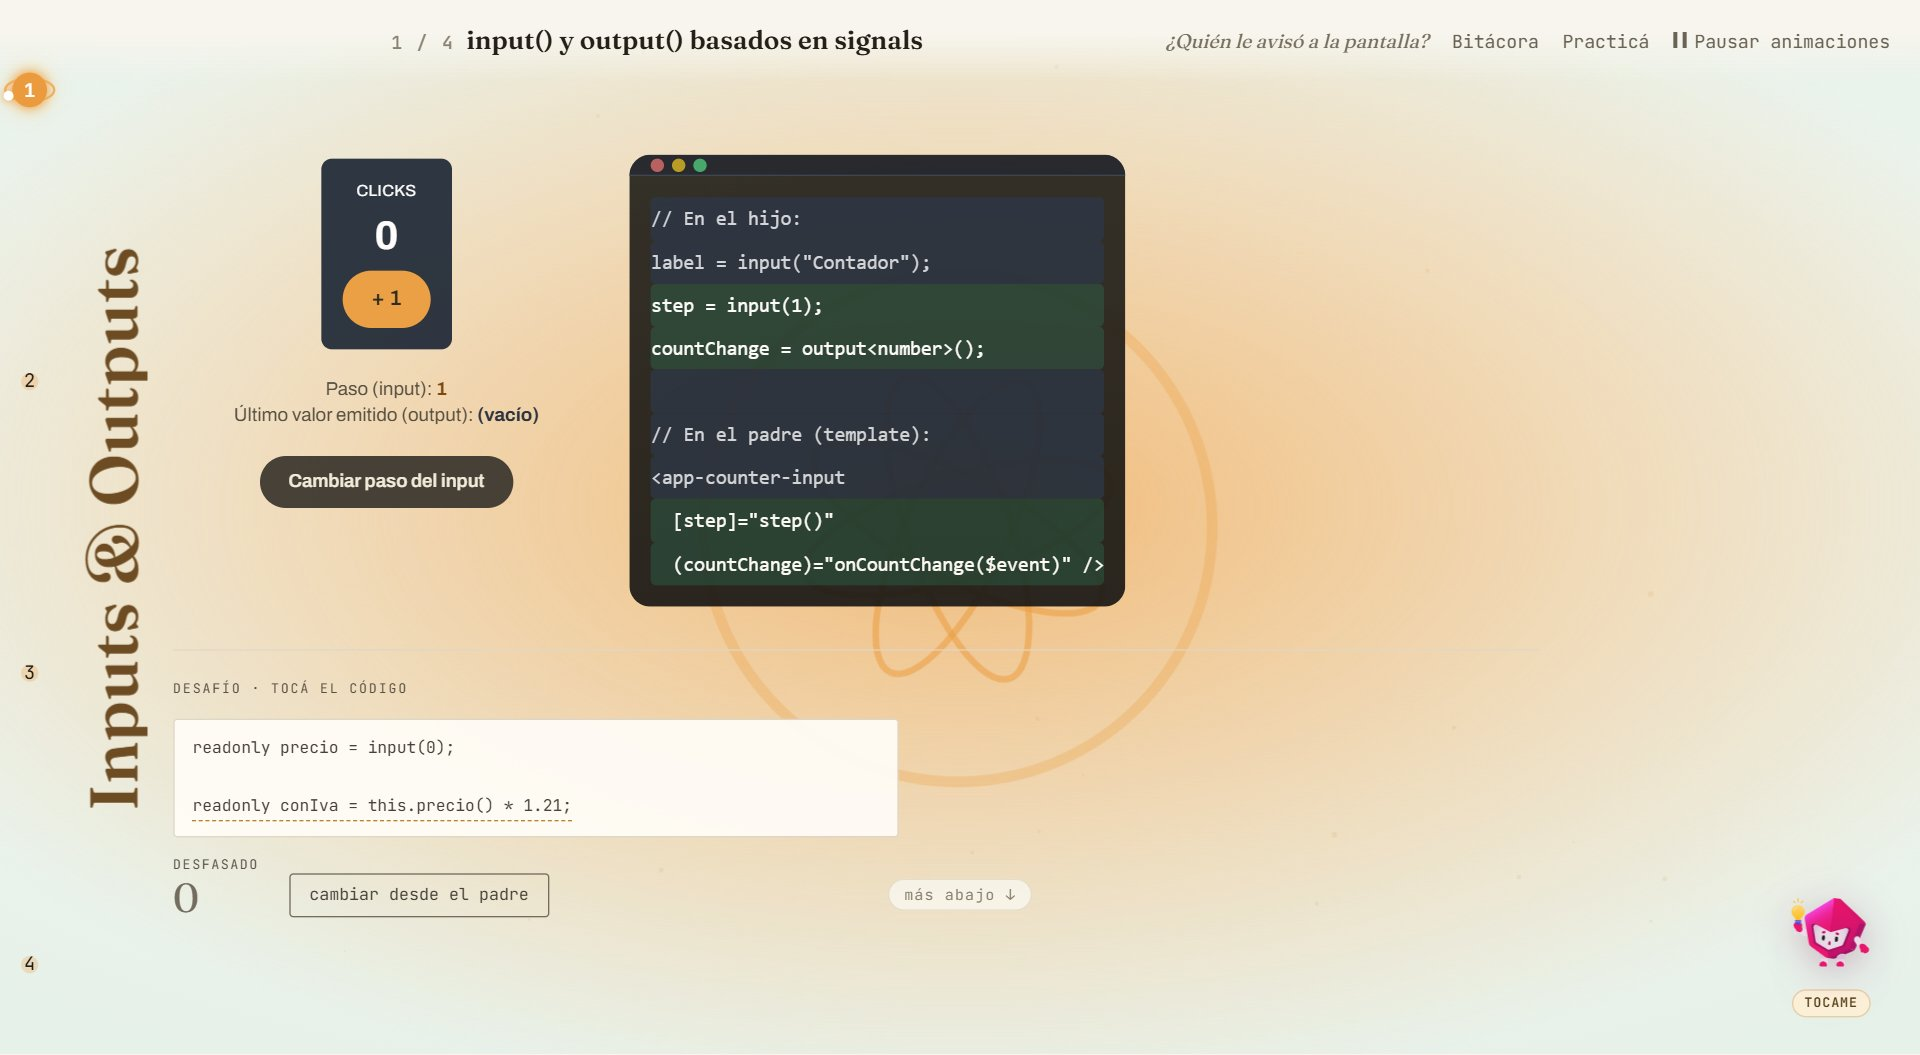
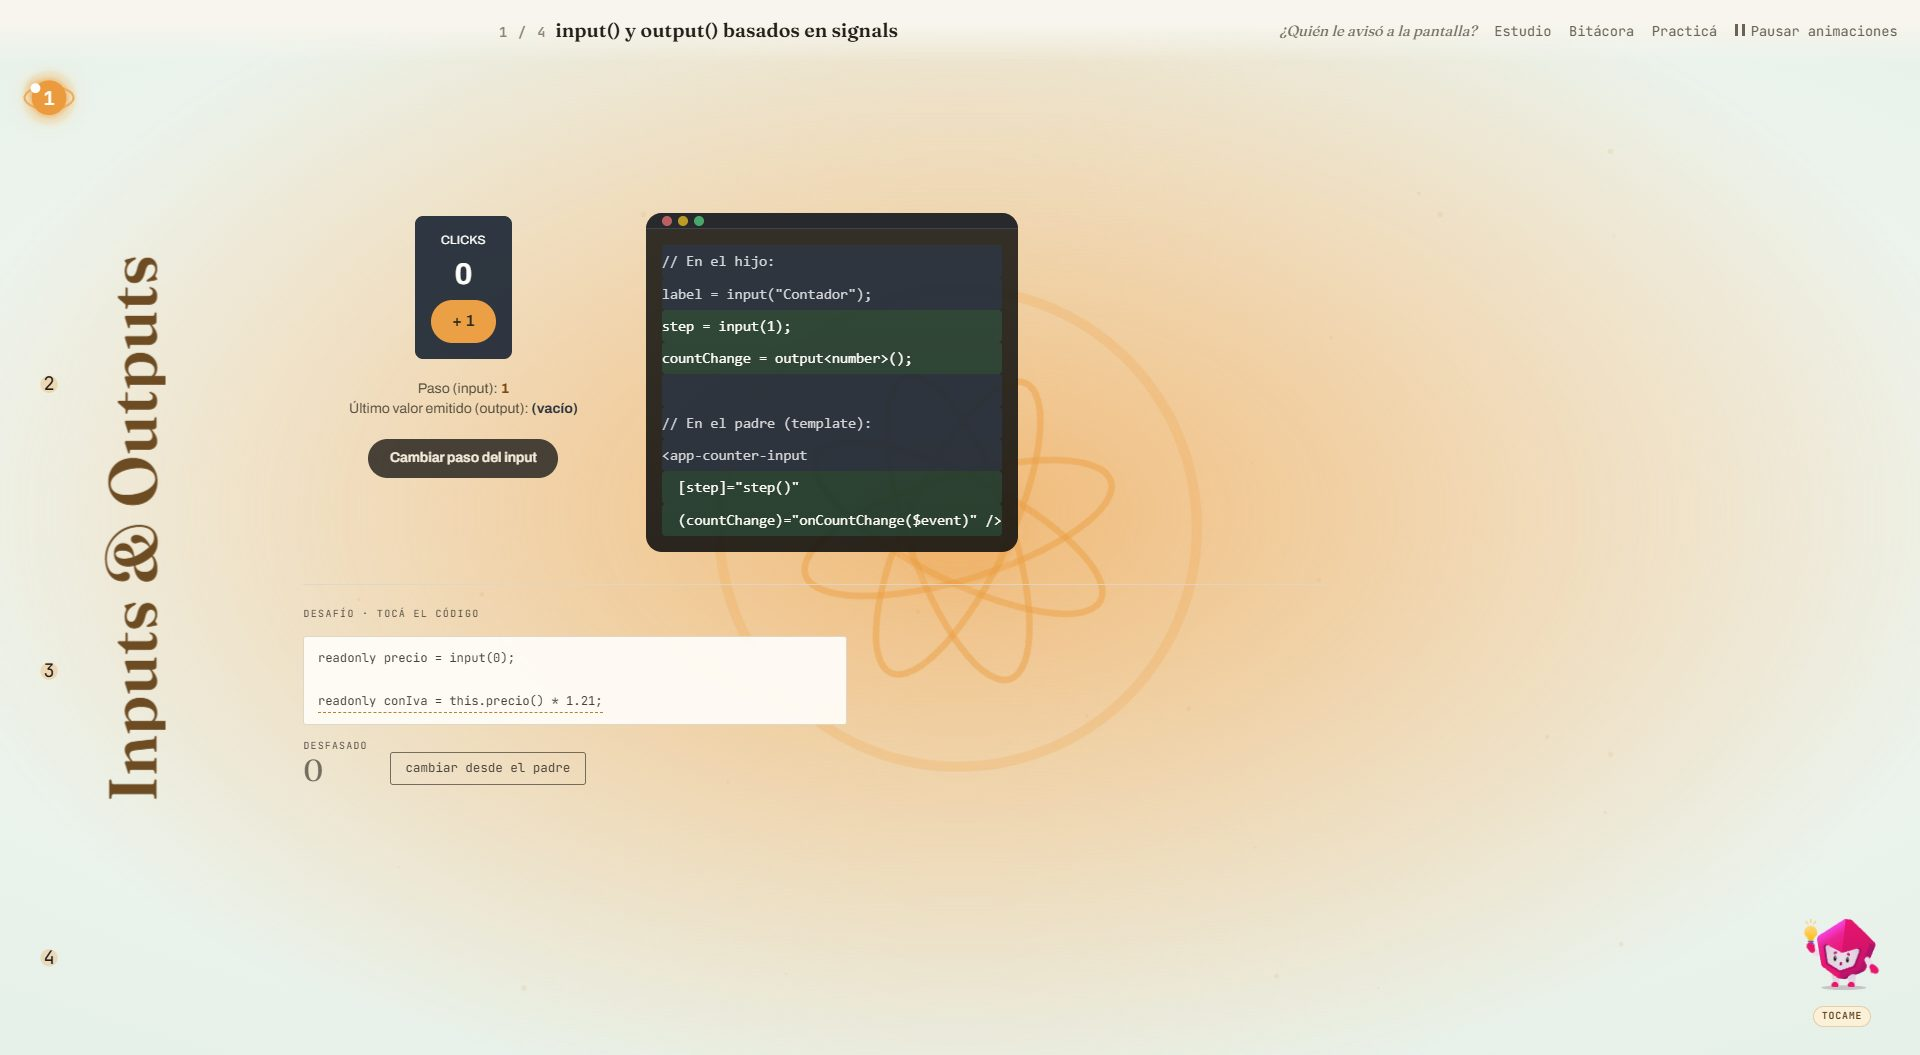
docs: checklist de lo que se toca, README y captura con los capítulos vivos

diff --git a/DESIGN-CHECKLIST.md b/DESIGN-CHECKLIST.md
@@ -353,6 +353,46 @@ puede alcanzar" son dos cosas distintas y hay que chequear las dos.
       desvanecido (borde transparente) no cuenta como visible al medir, y su padding tampoco corre
       el contenido: `.profile-container` de 2/1 lo metía 20-40 px adentro.
 
+## Lo que se toca: resortes, circuito y golpes
+
+- [ ] Lo que responde al puntero son muelles de `libs/muelle.ts` en UN reloj compartido. Con todo
+      quieto, cero `requestAnimationFrame`: se cuenta en reposo y otra vez después de asentarse.
+- [ ] Un toque suma velocidad, no fija una pose: doce clics seguidos terminan en
+      `translate(0, 0) rotate(0) scale(1, 1)`, nada queda a medio camino.
+- [ ] Apretar y arrastrar estira y no selecciona texto (`user-select: none` y `getSelection()` vacío);
+      soltar no dispara el click del botón que se arrastró.
+- [ ] Todo golpe pasa por el evento `impacto-vivo`: el del fondo, el de un nodo y el aterrizaje de la
+      mascota sacuden lo mismo. La cámara del motor sigue siendo la única dueña del `transform` de la
+      escena: la sacudida es un grupo propio.
+- [ ] `app-circuito` cuenta la verdad del grafo: sus valores salen de signals reales del demo. Un pulso
+      viaja solo por un enlace vivo y el consumidor reacciona cuando llega; un enlace `vivo: false` se
+      ve suelto y no lleva nada. Escribir el mismo valor no manda pulso; leer tampoco.
+- [ ] Un nodo con `accion` es un `<button>` con nombre accesible, y anda con Enter. Sin `accion` no es
+      focusable.
+- [ ] Un nodo se mide con `offset*`, no con `getBoundingClientRect`: el warp del sub-nivel lo distorsiona.
+- [ ] Un computed de demo no se lee para mostrarlo si el sub-nivel enseña que es perezoso: la pantalla
+      toma la cuenta de corridas recién al leer.
+- [ ] La card de `.card` no scrollea a 860 px con el demo USADO, no solo al abrirlo: los historiales
+      tienen tope, y dos paneles van en un renglón.
+- [ ] Una regla de la armonización pesa más de lo que parece: las de `integrada-vista` llevan el
+      atributo de encapsulación en cada parte. Para ganarle se mira la lista real de reglas que
+      aplican, no se adivina.
+- [ ] El click en el fondo se prueba con input real y contando `impacto-vivo`. `closest()` sube hasta
+      la raíz: un `[tabindex]` en la lista de "lo interactivo" atrapaba a `#main-content`
+      (`tabindex="-1"`) y el fondo entero quedó muerto, sin que nada fallara.
+- [ ] Nada que el motor apague por `inert` puede vivir en un elemento que la intro o el prólogo también
+      liberan: esos destapan a todos los hermanos. Va un nivel adentro. Se comprueba con Tab a 375 px,
+      con el prólogo corriendo.
+- [ ] Un identificador en un nodo no se parte (`WritableSi|gnal`): la columna mide lo que mide su nodo.
+      Y el demo no baja de 19rem al lado del código: se barre de 640 a 1001 px, no solo en los extremos.
+- [ ] Un nodo que no es redondo no gira su órbita: como elipse rígida le pisa el texto y al vecino.
+- [ ] Un rebote no cambia ningún estado, así que su palabra es la información: tiene región viva para el
+      lector de pantalla y, con movimiento reducido, aparece sin moverse.
+- [ ] Lo vivo de una card pre-montada o apagada (`[inert]`) queda en pausa: órbitas y respiración de la
+      mascota no suman animaciones infinitas sobre lo que no se ve.
+- [ ] Agrandar la mascota del mapa corre el globo a la izquierda, contra el nombre de los átomos de
+      abajo. Se mide texto contra texto en las 12 paradas, a 1440×860 y 1280×720.
+
 ## Cierre del sub-nivel (el desafío manipulable, los 37)
 
 Los 37 sub-niveles terminan con el mismo gesto: un bloque de código con una

diff --git a/README.md b/README.md
@@ -40,9 +40,11 @@ them the rules. Each concept is a chapter of that trip:
 - **Screening room.** `/cine/6` plays a chapter's cinematic directly, and `/cine/6?cuadro=<beat>`
   freezes one frame, useful to review scenes.
 
-All motion is CSS (springs solved by hand and fed to `linear()`, View Transitions for the iris,
-lazy-loaded scenes): no perpetual `requestAnimationFrame`, no expensive filters on moving things,
-and everything freezes when the tab is hidden or honors `prefers-reduced-motion`.
+Scripted motion is CSS (springs solved by hand and fed to `linear()`, View Transitions for the iris,
+lazy-loaded scenes). What answers the pointer (the mascot you can grab and stretch, the signal graphs
+you can poke) runs on hand-rolled springs sharing one clock that sleeps when nothing moves: no
+perpetual `requestAnimationFrame`, no expensive filters on moving things, and everything freezes when
+the tab is hidden or honors `prefers-reduced-motion`.
 
 Built with **Angular 22** (standalone components, `OnPush` everywhere, signal-first
 APIs) and styled with **Tailwind CSS**.
